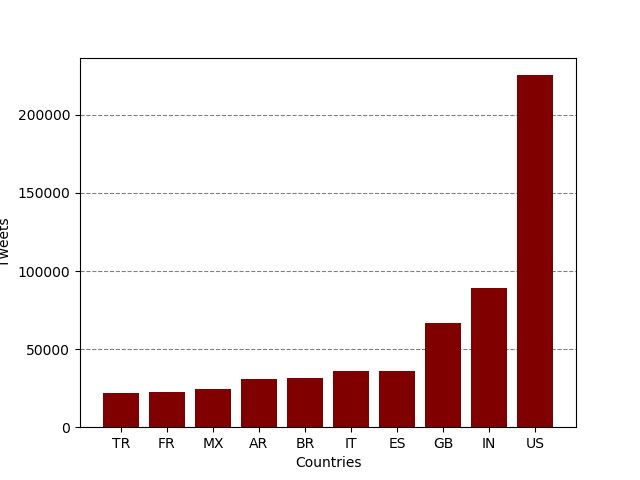
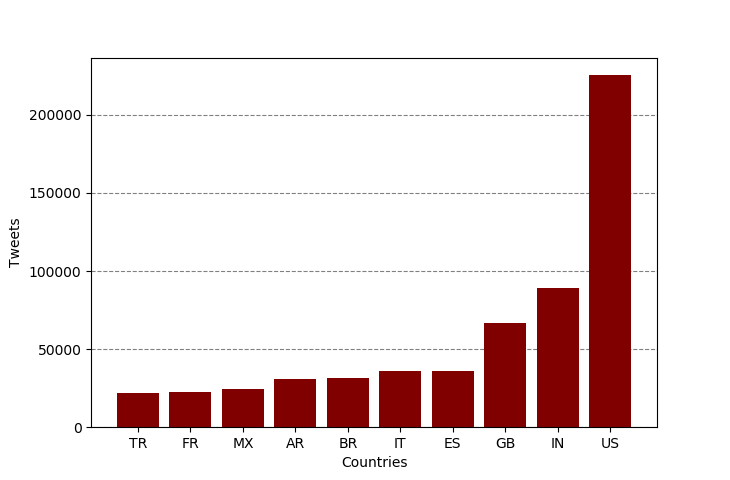
updated image sizes

diff --git a/src/visualize.py b/src/visualize.py
@@ -30,13 +30,14 @@ df_sorted = df.sort_values('tweets', ascending=True)
 df_sorted = df_sorted.iloc[-10:]
 categories = list(df_sorted['categories'])
 tweets = list(df_sorted['tweets'])
-fig, ax = plt.subplots()
+
+fig, ax = plt.subplots(figsize=(7.3,4.8))
 plt.bar(range(len(categories)), tweets, color='maroon')
 plt.xticks(range(len(categories)), categories)
-plt.xlabel("Countries")
+plt.xlabel("Languages")
 plt.title('')
 plt.ylabel("Tweets")
 ax.set_axisbelow(True)
 ax.grid(axis='y', color='gray', linestyle='dashed')
-plt.savefig('coronacountry.png')
+plt.savefig('coronalang.png')
 plt.show()

diff --git a/README.md b/README.md
@@ -13,13 +13,13 @@ The `visualize.py` file was used to generate bar graphs displaying some of the d
 
 **Tweets Containing #coronavirus**
 
-<img src=coronalang.png width=100% />
+<img src=coronalang.png width=50% />
 
-<img src=coronacountry.png width=100% />
+<img src=coronacountry.png width=50% />
 
 **Tweets Containing #코로나바이러스**
 
-<img src=klang.png width=100% />
+<img src=klang.png width=50% />
 
-<img src=kcountry.png width=100% />
+<img src=kcountry.png width=50% />
 
